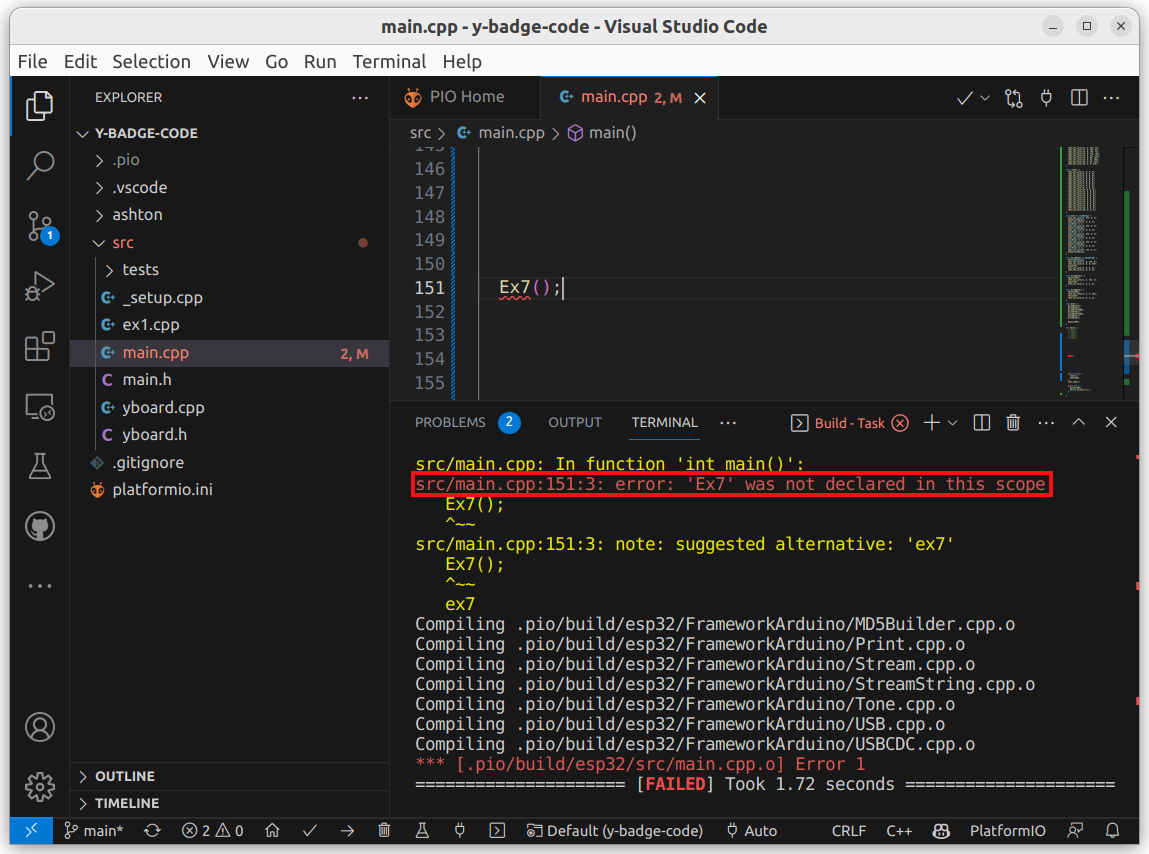
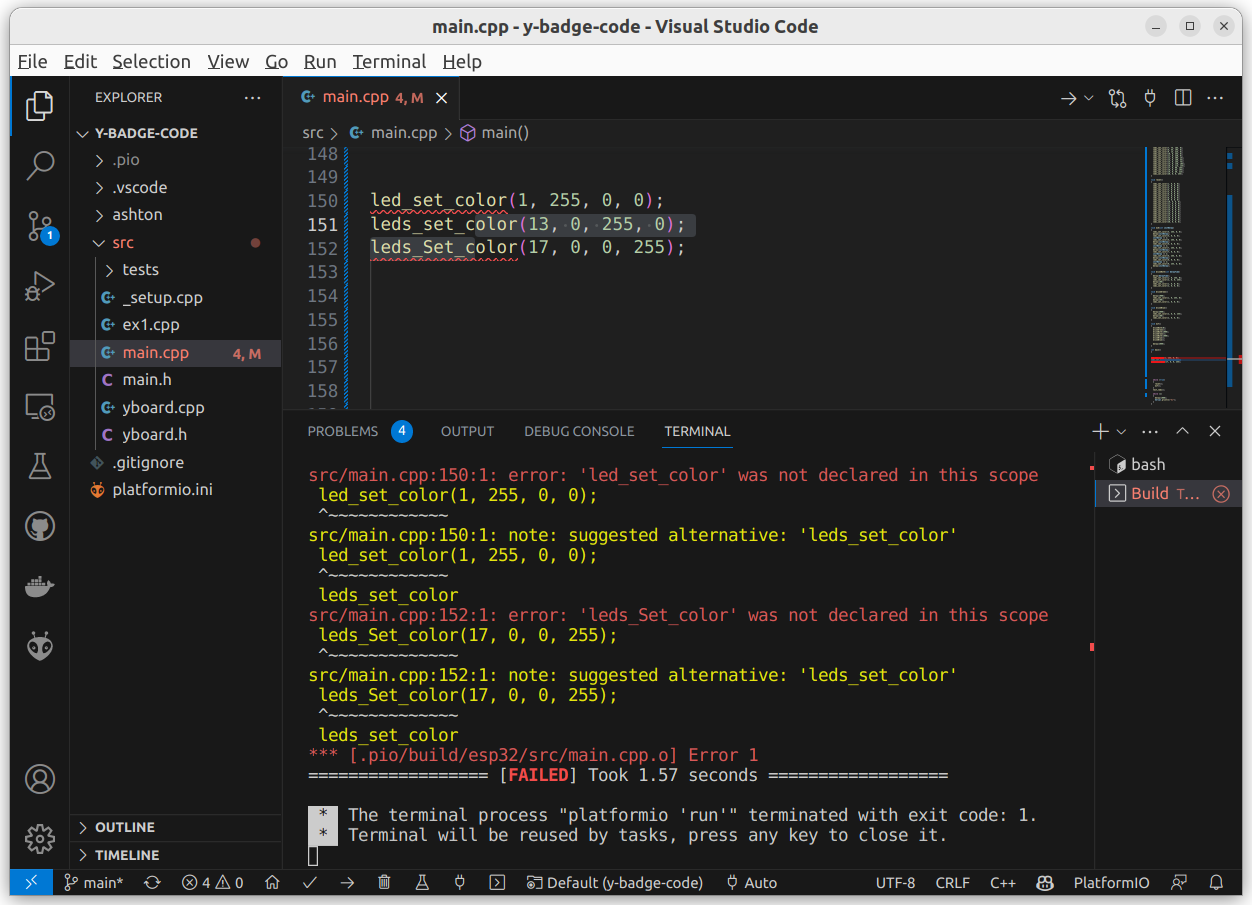
made changes to screenshots and instructions for compile errors

diff --git a/_setup/compiling.md b/_setup/compiling.md
@@ -29,9 +29,9 @@ Compiling and uploading can fail for many reasons. For example:
 <p align="center">
 <img src="{% link media/semicolon_error.png %}" width="900" vspace="20px"></p>
 
-In the above example, I forgot the semi-colon after my call to the `ex7()` function. Luckily, the compiler is smart. The error message it provides will tell you what the problem is (`expected ';' before the next statement`) and where the problem is: `src/main.cpp:151:8` tells us that the problem is in the *main.cpp* file, line 151, the 8th character. Notice that there is a red squiggle in my code where the error is too.
+In the above example, I forgot the semi-colon after my 2<sup>nd</sup> call to the `leds_set_color()` function. Luckily, the compiler is smart. The error message it provides will tell you what the problem is (`expected ';' before the next statement`) and where the problem is: `src/main.cpp:151:30` tells us that the problem is in the *main.cpp* file, line 151, the 30<sup>th</sup> character. Notice that there is a red squiggle in my code where the error is too.
 
-Another common error you might run into is when you misspell a function or variable name. *COMPILERS ARE CASE SENSITIVE!!!* Even if you just have a single character capitalized incorrectly, it will cause an error:
+Another common error you might run into is when you misspell a function or variable name. *COMPILERS ARE CASE SENSITIVE!!!* Even if you just have a single character capitalized incorrectly, it will cause an error. Two of the calls to `leds_set_color()` have mistakes. One is missing an 's' and one has a capitalized 's' that should be lower-case. Can you spot them?
 
 <p align="center">
 <img src="{% link media/mistyped_function_error.png %}" width="900" vspace="20px"></p>
